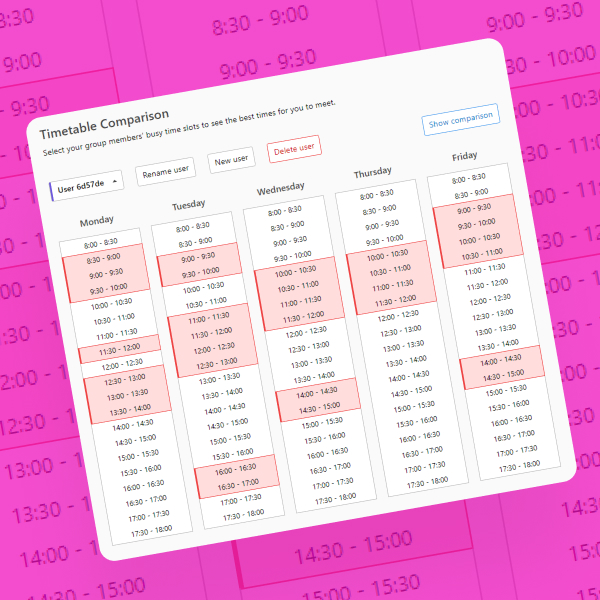
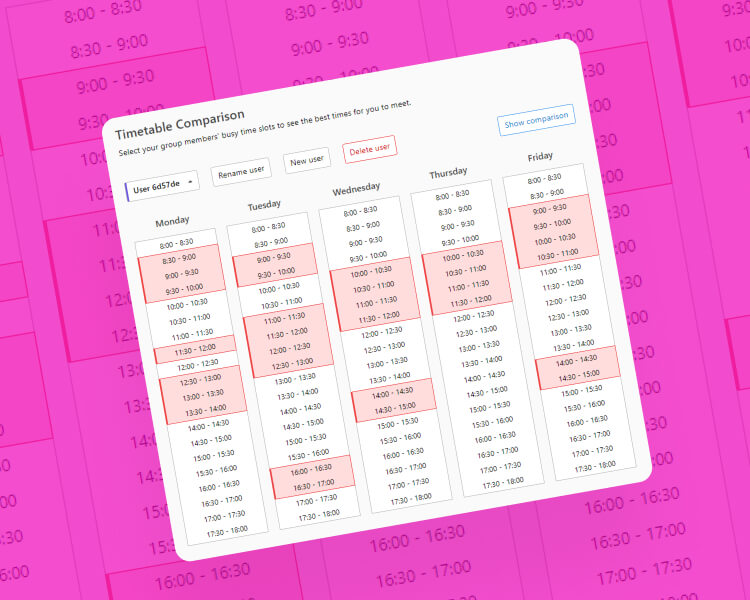
*img fix

diff --git a/style.css b/style.css
@@ -108,7 +108,10 @@ img { max-width: 30vw;}
         display: flex;
         align-items: center;
     }
-        .c-img img { border-radius: 5px; }
+        .c-img img {
+            width: min(30vw, 250px);
+            border-radius: 5px;
+        }
 
     .c-txt-cn {
         position: relative;
